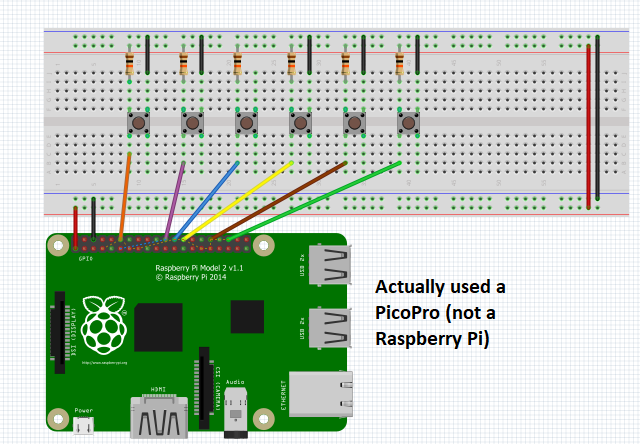
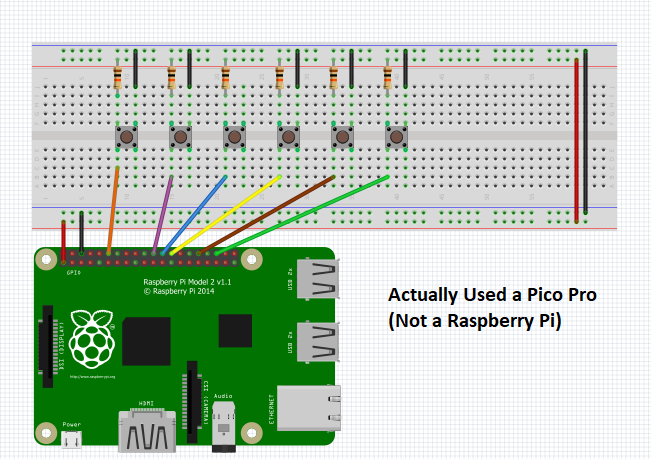
Updated Readme and diagrams.

diff --git a/README.md b/README.md
@@ -5,9 +5,10 @@ Have you ever wanted to change the channel or play a video game without putting 
 Introducing the Coozy DPad - here is a demo: <br>
 https://www.youtube.com/watch?v=S0Ccens-_vA
 
-This is a text entry-device designed for Interactive Device Design (Fall 2017) at UC Berkeley.
+This is a text entry-device designed for Interactive Device Design (Fall 2017) at UC Berkeley. This initial prototype demonstrates how a device could be used to input text using a "classic video game"-like alphabet display on . My imagined final version of this device would not be wired!
 
-<b>The text entry technique I chose and why:</b>
+<b>The text entry technique I chose and why:</b><br>
+I originally used a multi-tap (think the typical 3-letters-per-key layout for feature phones) text-entry technique, but when I started to think about how the device would be used I decided to simplify the layout to a directional pad with a button to select and a button to delete. This simplified layout minimized the amount of finger dexterity needed to select the individual buttons. While a multi-tap layout may be faster for spelling out a word using a standard cell phone, users holding a typical 12-oz aluminum can will dedicate a higher amount of pressure for gripping their fingers around the can - this distribution of grip can limit the ability to find and press buttons in quick succession. By using a simple D-Pad layout with big buttons, the user can confidently manipulate the device while confirming visually on the display which letter is being selected. Finally, this technique can also translate to navigating TV menus and to indicate directions during video games - two additional use cases.
 
 <b>How I implemented character recognition (i.e., how my code works):</b>
 
